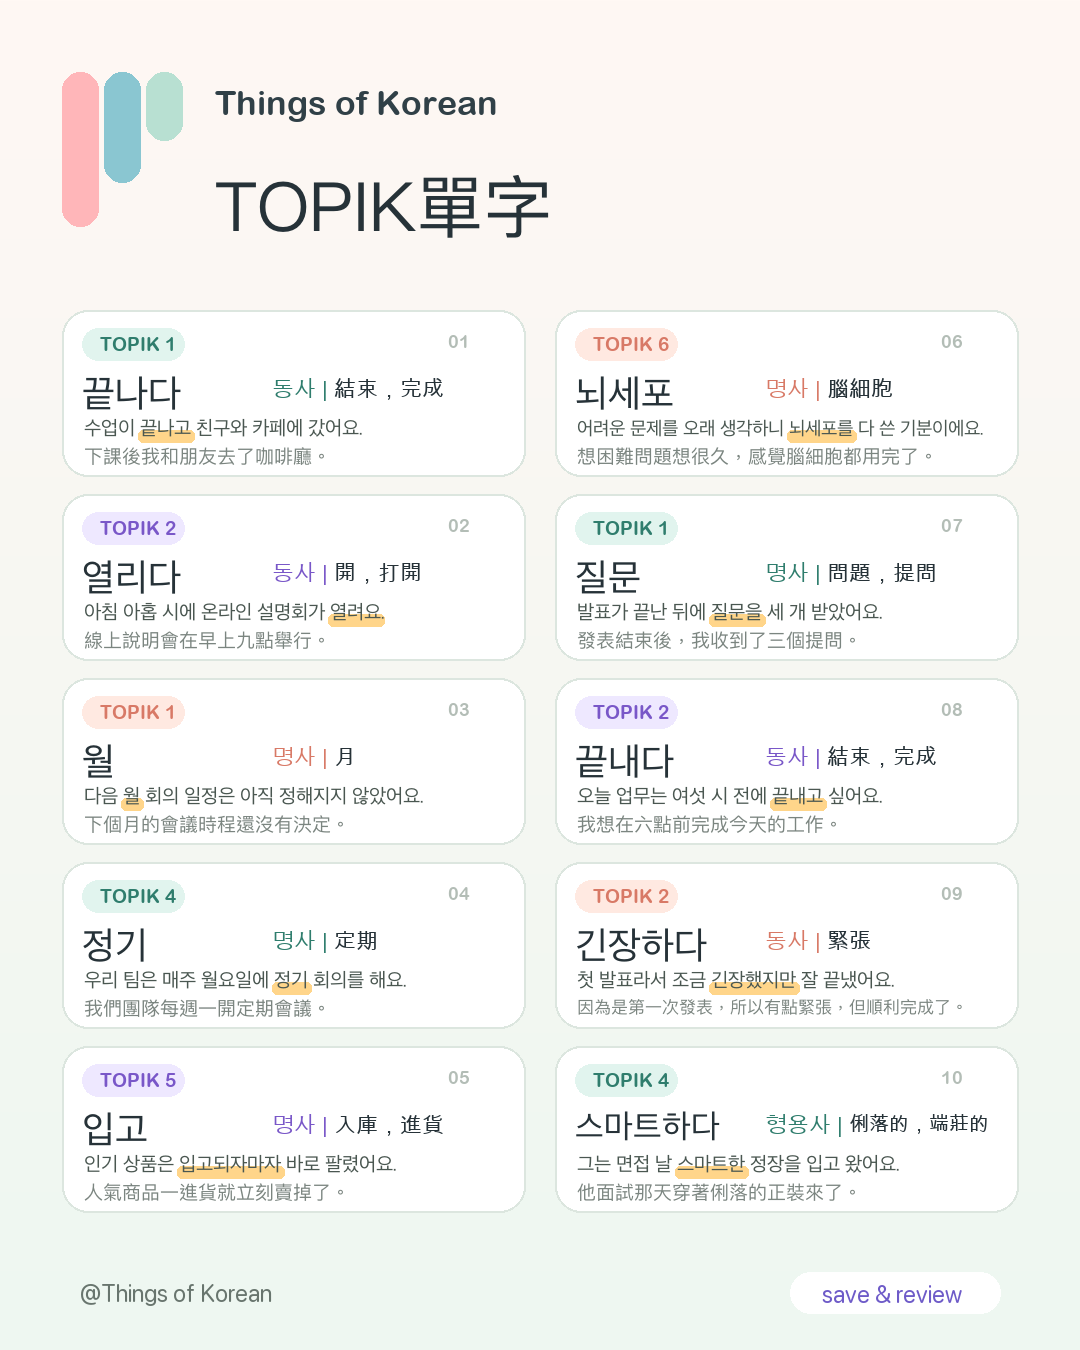
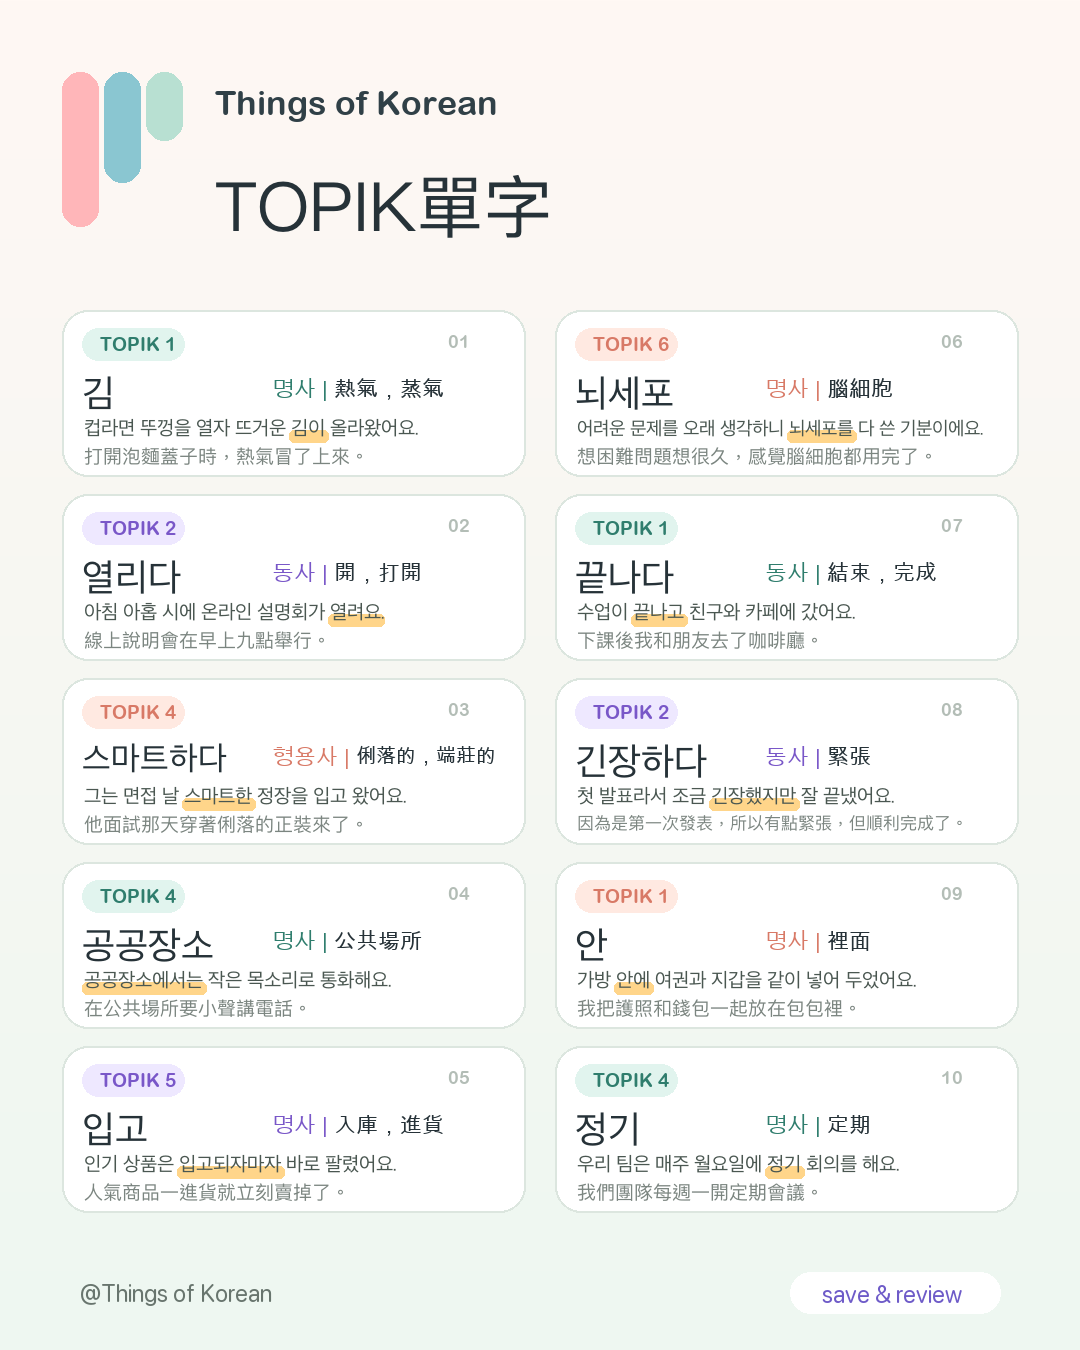
Avoid semantic duplicate vocab picks

diff --git a/src/content.js b/src/content.js
@@ -632,7 +632,7 @@ const grammarBank = [
 ];
 
 const TOPIK_LEVELS = [1, 2, 3, 4, 5, 6];
-const BLOCKED_VOCAB_WORDS = new Set(["구도", "이", "다", "한", "도", "어", "나", "지", "무", "삼"]);
+const BLOCKED_VOCAB_WORDS = new Set(["구도", "이", "다", "한", "도", "어", "나", "지", "무", "삼", "질문"]);
 const CURATED_VOCAB_WORDS = new Set([
   "학교", "친구", "시간", "음식", "회의", "준비하다", "끝나다", "약속", "방법", "건강",
   "은행", "병원", "회사원", "직장", "점심", "저녁", "버스", "날씨", "옷", "커피",
@@ -715,7 +715,7 @@ function uniqueByItemKey(items) {
   });
 }
 
-function pickByDateAcrossLevels(items, count, levelKey, offset = 0) {
+function pickByDateAcrossLevels(items, count, levelKey, offset = 0, conflictKey = null) {
   const day = dayNumber(offset);
   const uniqueItems = uniqueByItemKey(items);
   if (uniqueItems.length < count) {
@@ -724,10 +724,20 @@ function pickByDateAcrossLevels(items, count, levelKey, offset = 0) {
   const groups = groupByLevel(uniqueItems, levelKey);
   const pickedByLevel = new Map();
   const pickedKeys = new Set();
+  const pickedConflictKeys = new Set();
   const itemKey = (item) => item.w || item.pattern || JSON.stringify(item);
+  const hasConflict = (item) => {
+    const key = conflictKey?.(item);
+    return key && pickedConflictKeys.has(key);
+  };
+  const markPicked = (item) => {
+    pickedKeys.add(itemKey(item));
+    const key = conflictKey?.(item);
+    if (key) pickedConflictKeys.add(key);
+  };
   return levelSlotsForDay(day, count).map((level) => {
-    const group = (groups.get(level) || []).filter((item) => !pickedKeys.has(itemKey(item)));
-    const fallback = uniqueItems.filter((item) => !pickedKeys.has(itemKey(item)));
+    const group = (groups.get(level) || []).filter((item) => !pickedKeys.has(itemKey(item)) && !hasConflict(item));
+    const fallback = uniqueItems.filter((item) => !pickedKeys.has(itemKey(item)) && !hasConflict(item));
     const candidates = group.length ? group : fallback;
     if (!candidates.length) {
       throw new Error(`Unable to pick a unique TOPIK item for level ${level}.`);
@@ -736,9 +746,16 @@ function pickByDateAcrossLevels(items, count, levelKey, offset = 0) {
     const index = (countLevelSlotsBeforeDay(day, count, level) + pickedToday) % candidates.length;
     const item = candidates[index];
     pickedByLevel.set(level, pickedToday + 1);
-    pickedKeys.add(itemKey(item));
+    markPicked(item);
     return item;
   });
+}
+
+function vocabMeaningKey(item) {
+  const text = String(item.t || item.d || "")
+    .replace(/[，,、。.\s]/g, "")
+    .replace(/的$/g, "");
+  return text || item.w;
 }
 
 async function fetchFinanceHeadlines() {
@@ -970,7 +987,7 @@ export function koreanVocabRows() {
     !excludedWords.has(item.w)
   );
   const curatedVocab = availableVocab.filter((item) => CURATED_VOCAB_WORDS.has(item.w));
-  return pickByDateAcrossLevels(curatedVocab.length >= 10 ? curatedVocab : availableVocab, 10, "l").map((item) => ({
+  return pickByDateAcrossLevels(curatedVocab.length >= 10 ? curatedVocab : availableVocab, 10, "l", 0, vocabMeaningKey).map((item) => ({
     word: item.w,
     level: item.l,
     pos: item.p,
